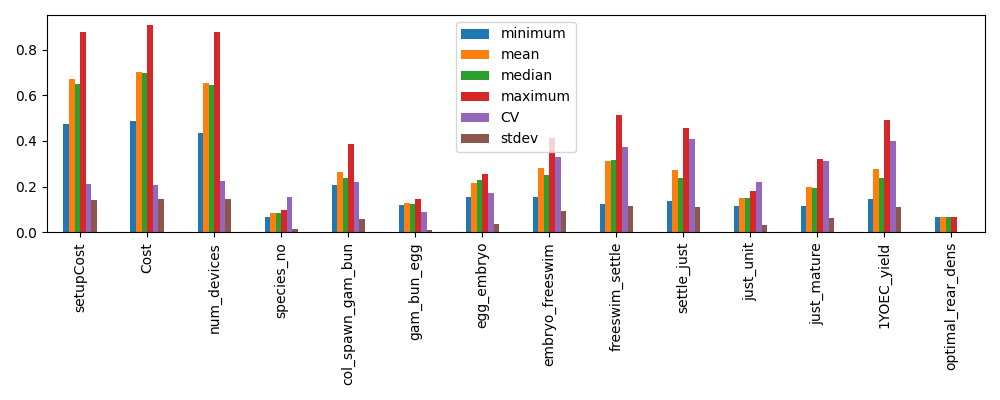
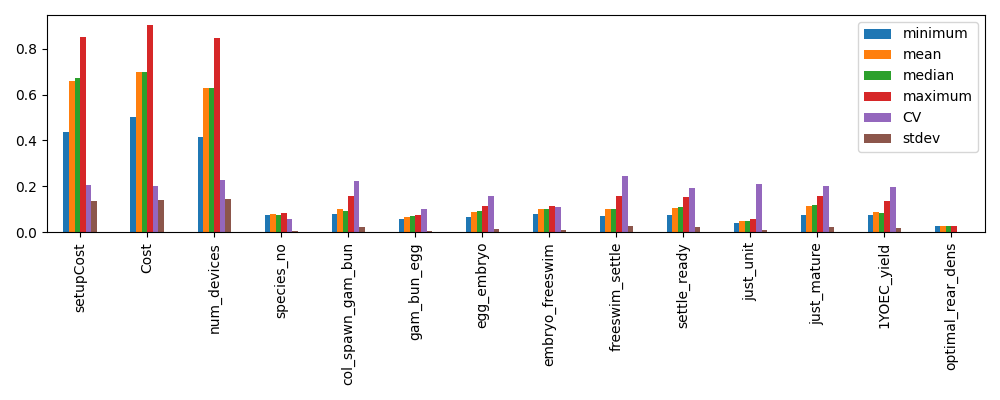
Update SA example

diff --git a/docs/source/example_workflow.md b/docs/source/example_workflow.md
@@ -53,7 +53,7 @@ prod_cost_model = "./models/3.8.0 CA Production Model.xlsx"
 deploy_cost_model = "./models/3.8.0 CA Deployment Model.xlsx"
 
 # Number of samples to take (must be power of 2)
-N = 2**5
+N = 2**7
 
 # Samples model and returns an SALib problem specification with results under the
 # `cost_model_results` key.